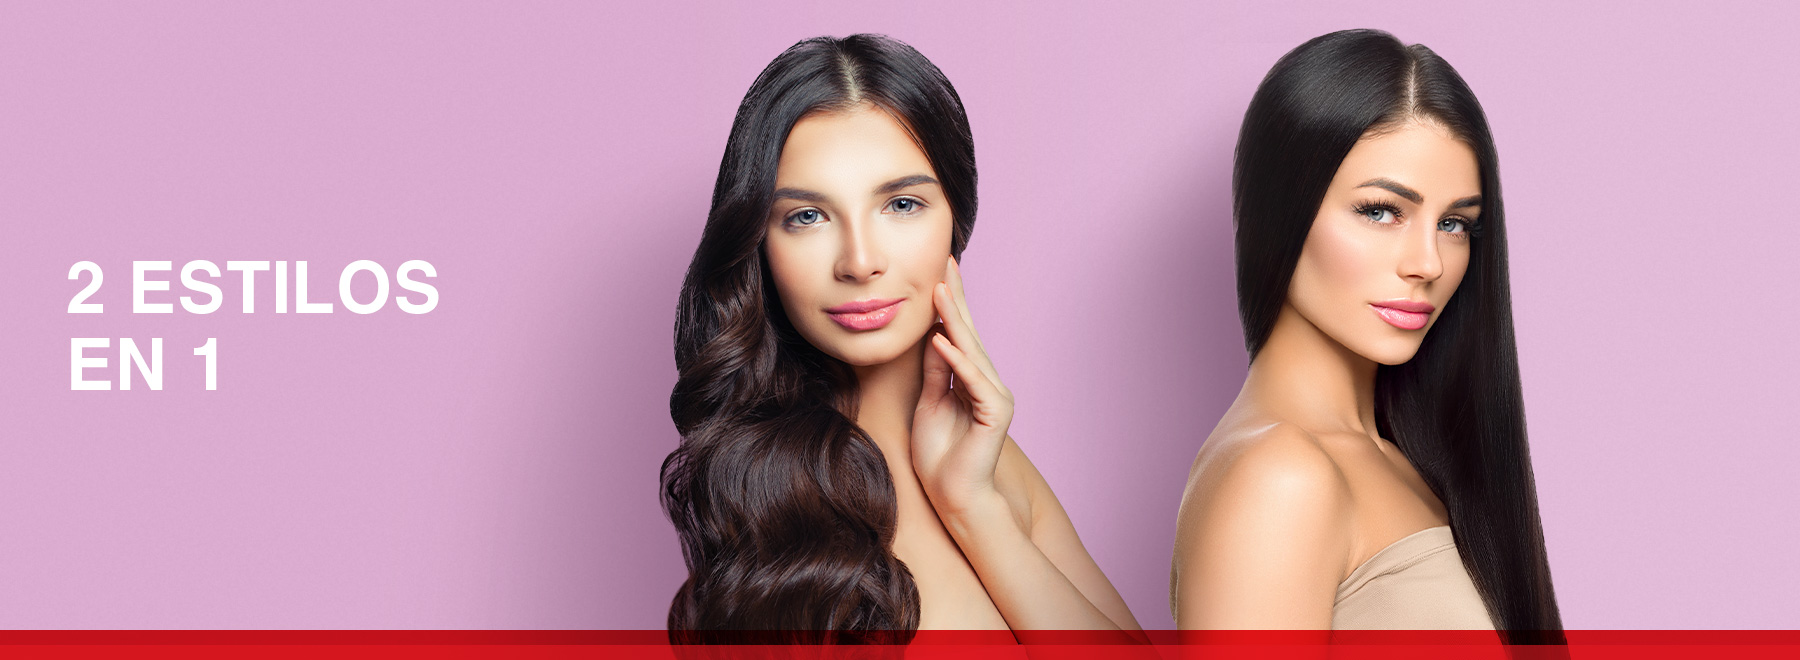
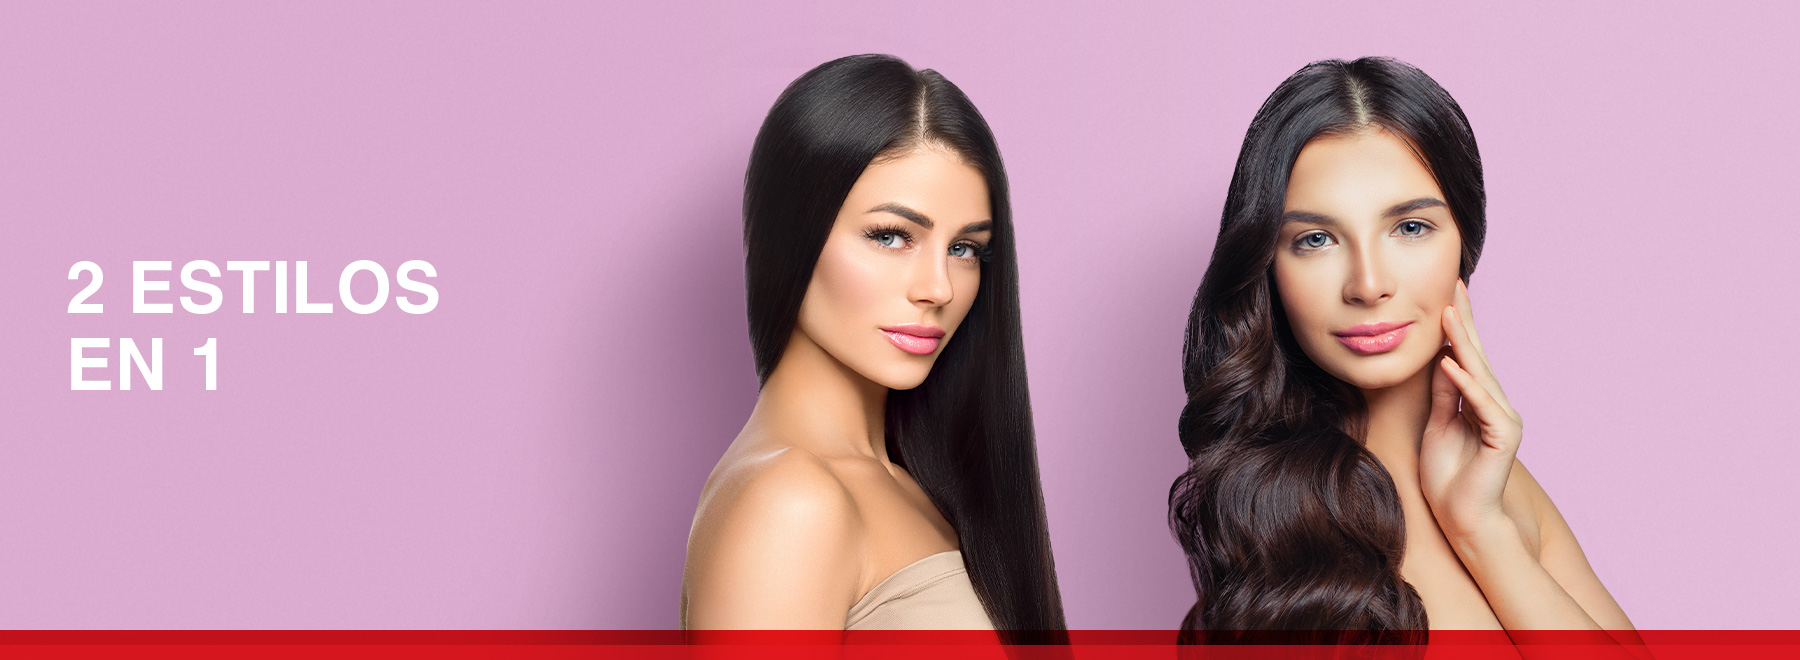
Cambio de imagenes y corrección de textos

diff --git a/index.html b/index.html
@@ -365,7 +365,7 @@
               PLANCHA ALISADORA REMINGTON ALISA & ONDULA, 2 ESTILOS EN 1, CON RECUBRIMIENTO DE CERÁMICA.
               </h3>
               <p class="d-flex align-items-center text-justify newaline">
-                Luce un cabello espectacular utilizando la práctica plancha alisadora Alisa & Ondula de Remington. Tanto si te sueñas con un cabello liso como con rizos suaves, esa herramienta te encantará. Gracias a sus placas extralargas y a su diseño con bordes de forma redondeada, puedes alisar y ondular tu cabello. Mayor versatilidad y comodidad para tu rutina.
+                Luce un cabello espectacular utilizando la práctica plancha alisadora Alisa & Ondula de Remington. Tanto si sueñas con un cabello liso o con rizos suaves, esa herramienta te encantará. Gracias a sus placas extralargas y a su diseño con bordes de forma redondeada, puedes alisar y ondular tu cabello. Mayor versatilidad y comodidad para tu rutina.
               </p>
               <br />
               <ul class="LISTADO">
@@ -497,21 +497,23 @@
             <strong> ESTILIZADO RÁPIDO </strong>
           </h4>
           <p class="p_pixel newaline">
-Disfruta de una experiencia de estilizado agradable para ti y tu cabello. Esta plancha alisadora se calienta de manera uniforme y alcanza la temperatura máxima de 200 °C en solo 30 segundos. Además, sus placas extralargas de 110mm te permiten peinarte en una sola pasada. ¡Peinados rápidos y duraderos!</p>
+            Disfruta de una experiencia de estilizado agradable para ti y tu cabello. Esta plancha alisadora se calienta de manera uniforme y alcanza la temperatura máxima de 200 °C en solo 30 segundos. Además, sus placas extralargas de 110 mm te permiten peinarte en una sola pasada. ¡Peinados rápidos y duraderos!
         </div>
         <div class="col-sm-4">
           <h4 class="text-left h4 LISTADO" style="text-transform: uppercase">
             <strong>DESLIZAMIENTO MÁS SUAVE</strong>
           </h4>
           <p class="p_pixel newaline">
-            Gracias a su placa flotante que se adapta perfectamente al cabello a medida que avanzas, lograrás resultados suaves y sedosos más facilmente.</p>
+            Gracias a su placa flotante que se adapta perfectamente al cabello a medida que avanzas, lograrás resultados suaves y sedosos más facilmente.
+          </p>
         </div>
         <div class="col-sm-4">
           <h4 class="text-left h4 LISTADO" style="text-transform: uppercase">
             <strong>COMODIDAD PARA TU RUTINA</strong>
           </h4>
           <p class="p_pixel newaline">
-            El cierre de seguridad bloquea la plancha alisadora cuando vayas a guardarla o a llevarla contigo para retocarte. Además, se apaga automáticamente transcurridos los 60 minutos. Ya no tendrás que preocuparte a medio camino si has dejado la plancha enchufada.</p>
+            El cierre de seguridad bloquea la plancha alisadora cuando vayas a guardarla o a llevarla contigo para retocarte. Además, se apaga automáticamente transcurridos 60 minutos. Ya no tendrás que preocuparte a medio camino si has dejado la plancha enchufada.
+          </p>
         </div>
       </div>
     </div>
